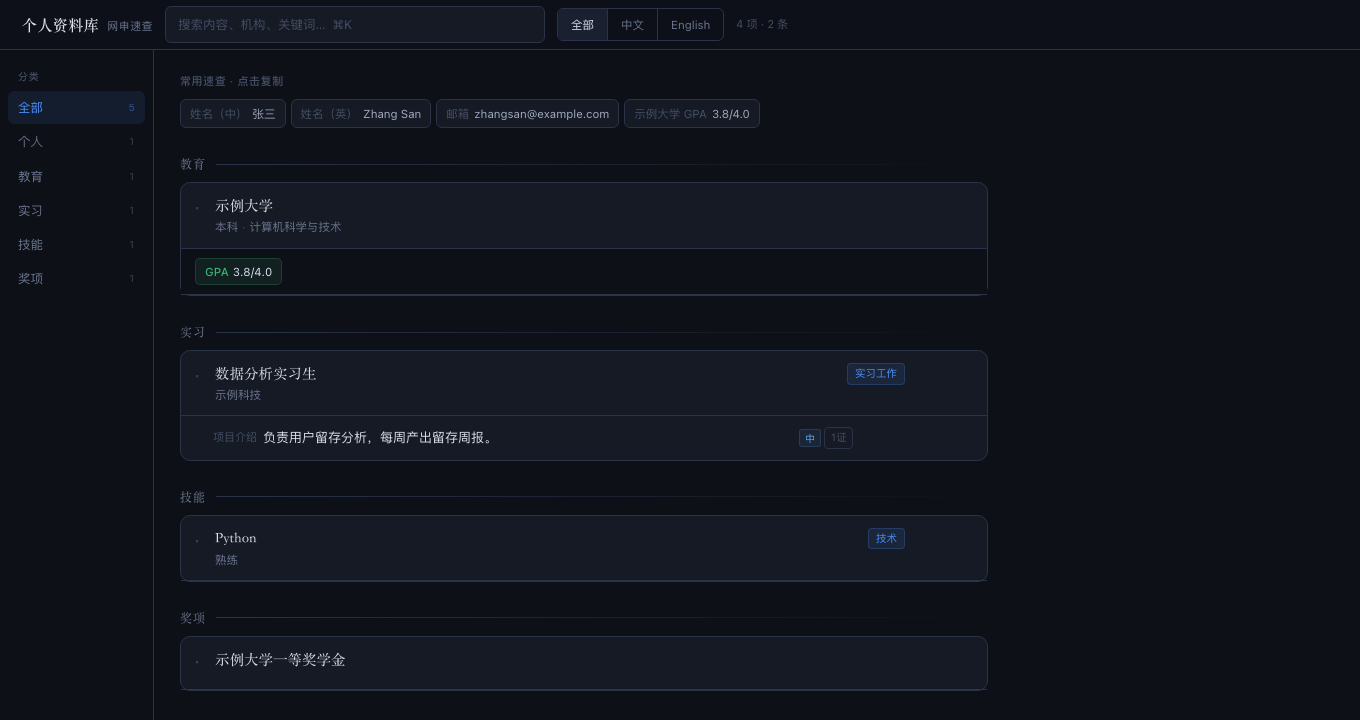
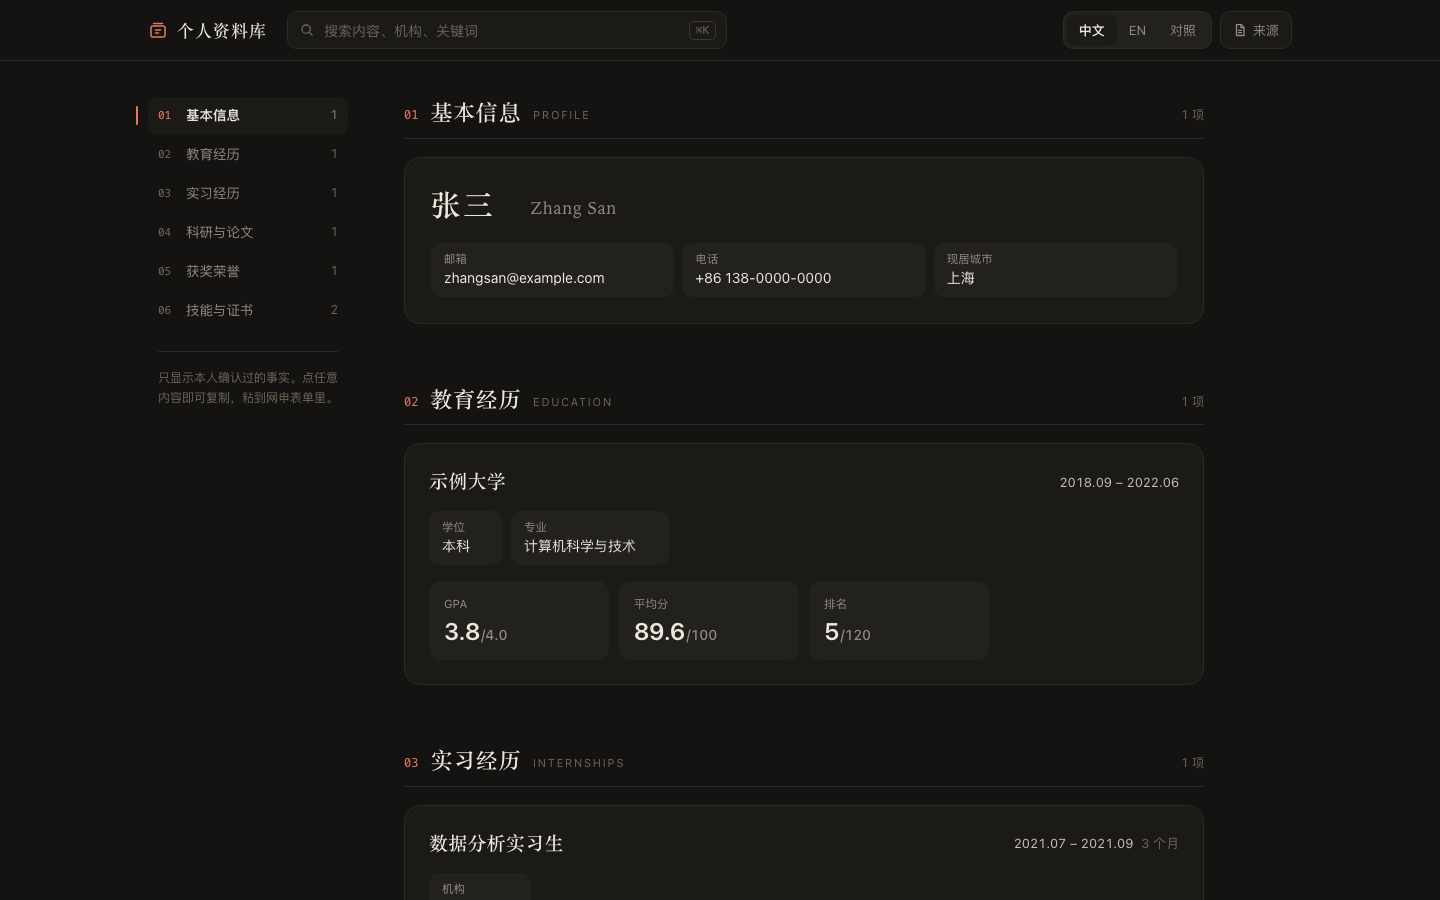
docs: document new viewer and evidence maintenance workflow

diff --git a/README.md b/README.md
@@ -50,17 +50,24 @@
 - 「这条事实的出处是哪份文件？」
 - 「我的库里现在有哪些经历？」
 - 「个人 DB 里帮我找一下 GPA 那条」
+- 「成绩单到了，把 GPA 那条的来源换成成绩单」
+- 「我把材料文件夹整理了一下，帮我把库同步过来」
 
 ## 它会交付什么
 
 | 交付物 | 形态 | 用途 |
 |---|---|---|
 | 个人事实库 | 本地 SQLite（`data/`） | 所有已确认事实的唯一真相 |
-| 只读查看器 | 本地网页 `http://127.0.0.1:8733` | 浏览、搜索、按中英筛选、逐条一键复制 |
+| 只读查看器 | 本地网页 `http://127.0.0.1:8733` | 按网申表单分区浏览、搜索、中英切换或对照、逐字段一键复制 |
 | 导出快照 | `exports/career-profile.snapshot.json` | 给其他工具复用的正式副本（只含确认过的） |
 | 自动备份 | `backups/` | 每次写库前的旧版本，出岔子能找回 |
 
-查看器的样子见上方截图：顶部搜索与中英切换，每条后面的 **「N 证」** 点开就是它的出处。
+查看器的样子见上方截图。几个用法：
+
+- **点哪复制哪**：姓名、职位、日期、GPA、整段描述，点一下就进剪贴板；卡片右上角的「复制整条」按当前语言把一段经历拼成一份。
+- **中文 / EN / 对照**：填中文网申看中文，填英文网申切 EN；缺译文的字段会用另一种语言顶上，并标出「中」或「EN」。
+- **字数**：长文本旁标出字数，英文另给词数，对照网申的字数上限。
+- **来源**：顶栏「来源」开关打开后，每个字段下面显示它出自哪份材料，**一手凭证（成绩单、证书、证明）排在最前**，其次是本人补充陈述，简历排最后。
 
 ## 它和同类有什么不同
 
@@ -68,6 +75,7 @@
 |---|---|---|
 | 信息形态 | 让 AI 写一份 Markdown 档案 | 结构化事实库（每条事实一个字段 + 语言 + 状态） |
 | 溯源 | 通常没有，或只写"来自简历" | 每条事实带来源文件 + SHA-256 + 原文摘录 |
+| 证据分级 | 不区分 | 一手凭证、本人陈述、简历分三级，查看器优先展示一手凭证 |
 | 防虚构 | 靠提示词约束 | **代码级校验**：来源必须在目录内、文本摘录必须逐字、只有 confirmed 才导出 |
 | 谁能写库 | AI 直接写 | AI 只能提候选，**本人逐条确认**后才入库 |
 | 填表 | 导出文档再复制 | 网页里**按字段一键复制**，中英对照 |
@@ -89,18 +97,18 @@ personal-db/                ← skill 本体
 ├── README.md               这份说明（给你看）
 ├── app/                    要复制到你的库目录的代码
 │   ├── career_profile.py   数据库 CLI（唯一写入入口）
-│   ├── web/                只读查看器（serve.py + index.html + .command）
+│   ├── web/                只读查看器（serve.py + index.html + .command + 可选配置示例）
 │   └── .gitignore          隐私数据不进 Git
 ├── reference/              数据模型、写入流水线（助手查用）
 ├── templates/              候选/决定的 JSON 模板
 ├── examples/               全虚构的可跑样例（材料 + 候选 + 决定）
-├── tests/                  端到端回归与截图脚本
+├── tests/                  单元测试、端到端回归与截图脚本
 └── docs/                   查看器演示截图
 ```
 
 ## 验证与测试
 
-交付前会跑一遍合成数据端到端回归（`bash tests/run_e2e.sh`）：初始化 → 候选 → 校验 → **故意写坏摘录必须被拦住** → 入库 → 导出 → 查看器接口。全程只碰 `tests/.demo-project/`，不读写任何真实库。
+交付前会跑一遍回归（`bash tests/run_e2e.sh`）：先跑单元测试，再用合成数据走完整流程——初始化 → 候选 → 校验 → **故意写坏摘录必须被拦住** → 入库 → 补挂一手凭证 → 挪动材料后同步路径 → 导出 → 查看器接口。全程只碰 `tests/.demo-project/`，不读写任何真实库。
 
 ## 名词小抄
 
@@ -127,7 +135,7 @@ personal-db/                ← skill 本体
 不会。凡是拿不准的，它会问你；凡是要进库的，都会先让你确认。
 
 **材料能删吗？删了库里的信息会没吗？**
-库是独立存的。但为了"有据可查"，建议材料别乱删；真要整理，先问问助手。
+库是独立存的。但为了"有据可查"，建议材料别乱删。想重新整理文件夹也没问题，整理完告诉助手，它会把库里登记的路径同步过去。
 
 ---
 

diff --git a/SKILL.md b/SKILL.md
@@ -61,17 +61,26 @@ description: >-
 6. **导出并校验。** `python3 career_profile.py export exports/career-profile.snapshot.json` 然后 `validate-export`。
 7. **提示用户刷新查看器**（若已开着），或双击 `web/打开资料库.command` 打开。
 
+## 日常维护（不新增事实时用这几个）
+
+- **补挂一手凭证。** 事实已入库、后来拿到了更硬的凭证（比如 GPA 先从简历录入，后来补了成绩单），写 `staging/links-<批次名>.json` 补挂来源，事实的值不变：`validate-links` → 用户确认 → `apply-links`。挂错的来源用同一文件里的 `unlinks` 撤销（每条事实至少保留一个来源）。
+- **改一条已有事实的值。** 候选里写 `"supersedes": "<旧 fact_id>"`，采纳后旧事实自动置为 `rejected`（留痕不删）。
+- **用户整理了材料文件夹。** 按「旧路径 → 新路径」写映射，`relocate-sources <映射> ` 先预览，再加 `--apply`；只改登记路径，不改指纹。
+- **核对来源时优先一手凭证。** 机构出具的成绩单、证书、证明、offer 是一手；本人补充陈述次之；简历是二手。给事实挂来源时尽量挂一手凭证，查看器也按这个顺序展示。
+
+命令与文件格式见 `reference/pipeline.md`。
+
 > 第一批候选务必包含姓名等 `person.*` 字段（entityKey=`person.owner`），否则 `export` 会因缺少 person 实体报错。
 > 另外几个契约必填：`experience.type`、`experience.title`、`skill.category`、`skill.name`、`award.name`。
 
 ## 打开查看器
 
-`cd web && python3 serve.py --port 8733` → 浏览器开 `http://127.0.0.1:8733`；macOS 可双击 `web/打开资料库.command`（自定位、后台常驻，关窗口不停服务）。只读、只显示 confirmed、可搜索/按中英筛选/逐条复制/看来源。默认只绑 `127.0.0.1`，不对外网开放。
+`cd web && python3 serve.py --port 8733` → 浏览器开 `http://127.0.0.1:8733`；macOS 可双击 `web/打开资料库.command`（自定位、后台常驻，关窗口不停服务）。只读、只显示 confirmed。页面按网申表单的顺序分区（基本信息、教育、实习、科研、项目、校园、奖项、技能、证明人），点任意字段即复制；可在中文、英文、中英对照之间切换，长文本标出字数；「来源」开关按一手 → 本人陈述 → 二手的顺序显示出处。个人专属的分区或字段名写进 `web/viewer-config.json`（不进 Git，格式见 `viewer-config.example.json`）。默认只绑 `127.0.0.1`，不对外网开放。
 
 ## 自检（改完本 skill 或交付前跑一遍）
 
 ```bash
-bash tests/run_e2e.sh          # 合成数据端到端：init→候选→校验→负向拦截→入库→导出→查看器 API
+bash tests/run_e2e.sh          # 单元测试 + 合成数据端到端：init→候选→校验→负向拦截→入库→补挂凭证→同步路径→导出→查看器 API
 bash tests/make_screenshot.sh  # 用合成数据重录 docs/viewer-demo.png（需本机 Chrome/Chromium）
 ```
 回归脚本只碰 `tests/.demo-project/`（已 gitignore），**不会读写任何真实库**。

diff --git a/reference/pipeline.md b/reference/pipeline.md
@@ -62,13 +62,54 @@ python3 career_profile.py add-expression \
 python3 career_profile.py list-expressions
 ```
 
+## 替换已有事实的值
+
+候选里加 `"supersedes": "<旧 fact_id>"`。新值被采纳（accept / replace）时，旧事实在同一事务里置为 `rejected`，留痕不删；
+否掉新值则旧事实原样保留。旧事实必须是 confirmed，且与新候选同一 entityKey、fieldPath、locale。
+
+## 给已有事实补挂来源（事实的值不变）
+
+```bash
+python3 career_profile.py validate-links staging/links-<批次名>.json
+python3 career_profile.py apply-links staging/links-<批次名>.json review/decisions-<批次名>.json
+```
+
+补挂文件格式（样例见 `examples/demo-links.template.json`）：
+
+```json
+{
+  "linkVersion": "1.0.0",
+  "generatedAt": "2026-09-27T00:00:00Z",
+  "sources": [ { "sourceId": "evidence.transcript", "absolutePath": "…", "documentType": "pdf", "sha256": "…" } ],
+  "links":   [ { "linkId": "link.gpa", "factId": "<已确认的 fact_id>", "sourceRefs": [ { "sourceId": "evidence.transcript", "locator": "页眉", "excerpt": "…" } ] } ],
+  "unlinks": [ { "unlinkId": "unlink.wrong", "factId": "<fact_id>", "sourceId": "<挂错的来源>", "reason": "为什么撤" } ]
+}
+```
+
+- 规则与候选相同：来源在素材目录内、SHA-256 一致、文本来源摘录逐字。
+- 同一事实不能重复挂同一来源；已登记过的 sourceId 必须指向同一份未改动的文件，文件改过就换新的 sourceId。
+- 撤销后每条事实至少保留一个来源。
+- 决定文件沿用 decisions 格式，`candidateId` 填 linkId / unlinkId，只接受 accept / reject。
+
+## 挪动材料后同步登记路径
+
+```bash
+python3 career_profile.py relocate-sources moves.json          # 预览
+python3 career_profile.py relocate-sources moves.json --apply  # 写库（自动备份）
+```
+
+`moves.json` 形如 `{"moves": {"旧绝对路径": "新绝对路径"}}`。只改 `sources.absolute_path`，不改登记时的 SHA-256；
+新位置必须在素材目录内且文件存在；登记后被改过的文件会单独列出，路径照常更新。
+挪动前先停掉查看器。
+
 ## 查看器（只读网页）
 
 ```bash
 cd web && python3 serve.py --port 8733     # 然后浏览器打开 http://127.0.0.1:8733
 ```
 macOS 上也可直接双击 `web/打开资料库.command`（自定位、后台常驻）。
-查看器只读打开数据库，只显示 `confirmed` 事实；可搜索、按中英筛选、逐条一键复制、点"N证"看出处。
+查看器只读打开数据库，只显示 `confirmed` 事实；可搜索、中英切换或对照、逐字段一键复制；「来源」开关按一手 → 本人陈述 → 二手的顺序显示出处。
+个人专属的分区或字段名写进 `web/viewer-config.json`（不进 Git），格式见 `web/viewer-config.example.json`。
 
 ## 边界
 

diff --git a/reference/data-model.md b/reference/data-model.md
@@ -19,8 +19,13 @@
 | `skill` | `skill.python`、`skill.english` | 一项技能一个 key。 |
 | `award` | `award.scholarship-2024` | 一个奖项一个 key。 |
 
-`experience.type` 的取值（决定查看器里的分组）：
-`professional`(实习) / `research`(科研与论文) / `leadership`(社会实践·学生工作) / `project`(项目与作品，含作品集/开源/摄影等)。
+`experience.type` 的取值（决定查看器里的分区）：
+`professional`(实习经历) / `research`(科研与论文) / `leadership`(校园经历) / `project`(项目与作品，含作品集/开源/摄影等)。
+
+查看器的其他分区约定：
+- 证明人用 `experience.reference-<标识>` 这样的 entityKey，自动归到「证明人」分区。
+- 同校的辅修（学位或专业里带「辅修」/ minor）挂在主修下面显示；`experience.fact.url` 落在某个条目 `experience.fact.homeurl` 之下的项目，挂在那个条目下面显示（比如 GitHub 组织下的各个仓库）。
+- 个人专属的分区、字段显示名、排序写进 `web/viewer-config.json`，格式见 `viewer-config.example.json`。
 
 ## 字段路径 field_path 白名单
 
@@ -49,6 +54,18 @@
 
 `pending`(候选，待确认) → `confirmed`(本人确认，正式) / `rejected`(否掉) / `conflict`(与已有冲突，待裁决)。
 **查看器和导出只显示 `confirmed`。** 事实要变成 confirmed，必须走 decisions 流水线（见 pipeline.md）。
+
+## 来源分级
+
+查看器按来源 ID 和文件名把来源分三级，并按这个顺序展示：
+
+| 级别 | 判断 | 例子 |
+|---|---|---|
+| 一手 | 其余都算一手 | 成绩单、学位证、实习证明、获奖证书、offer |
+| 本人陈述 | sourceId 含 `supplement`，或文件名含「本人 / 陈述 / 表述 / 补充 / 信息采集 / 总结」 | 口述补充落成的 md、学年总结 |
+| 二手 | sourceId 或文件名含「简历 / 履历 / resume / cv」 | 各版本简历 |
+
+给来源起 sourceId 时按这个约定命名（如 `evidence.transcript`、`supplement.award-details-2026`、`source.resume.zh`），查看器就能分对。
 
 ## 日期写法
 
